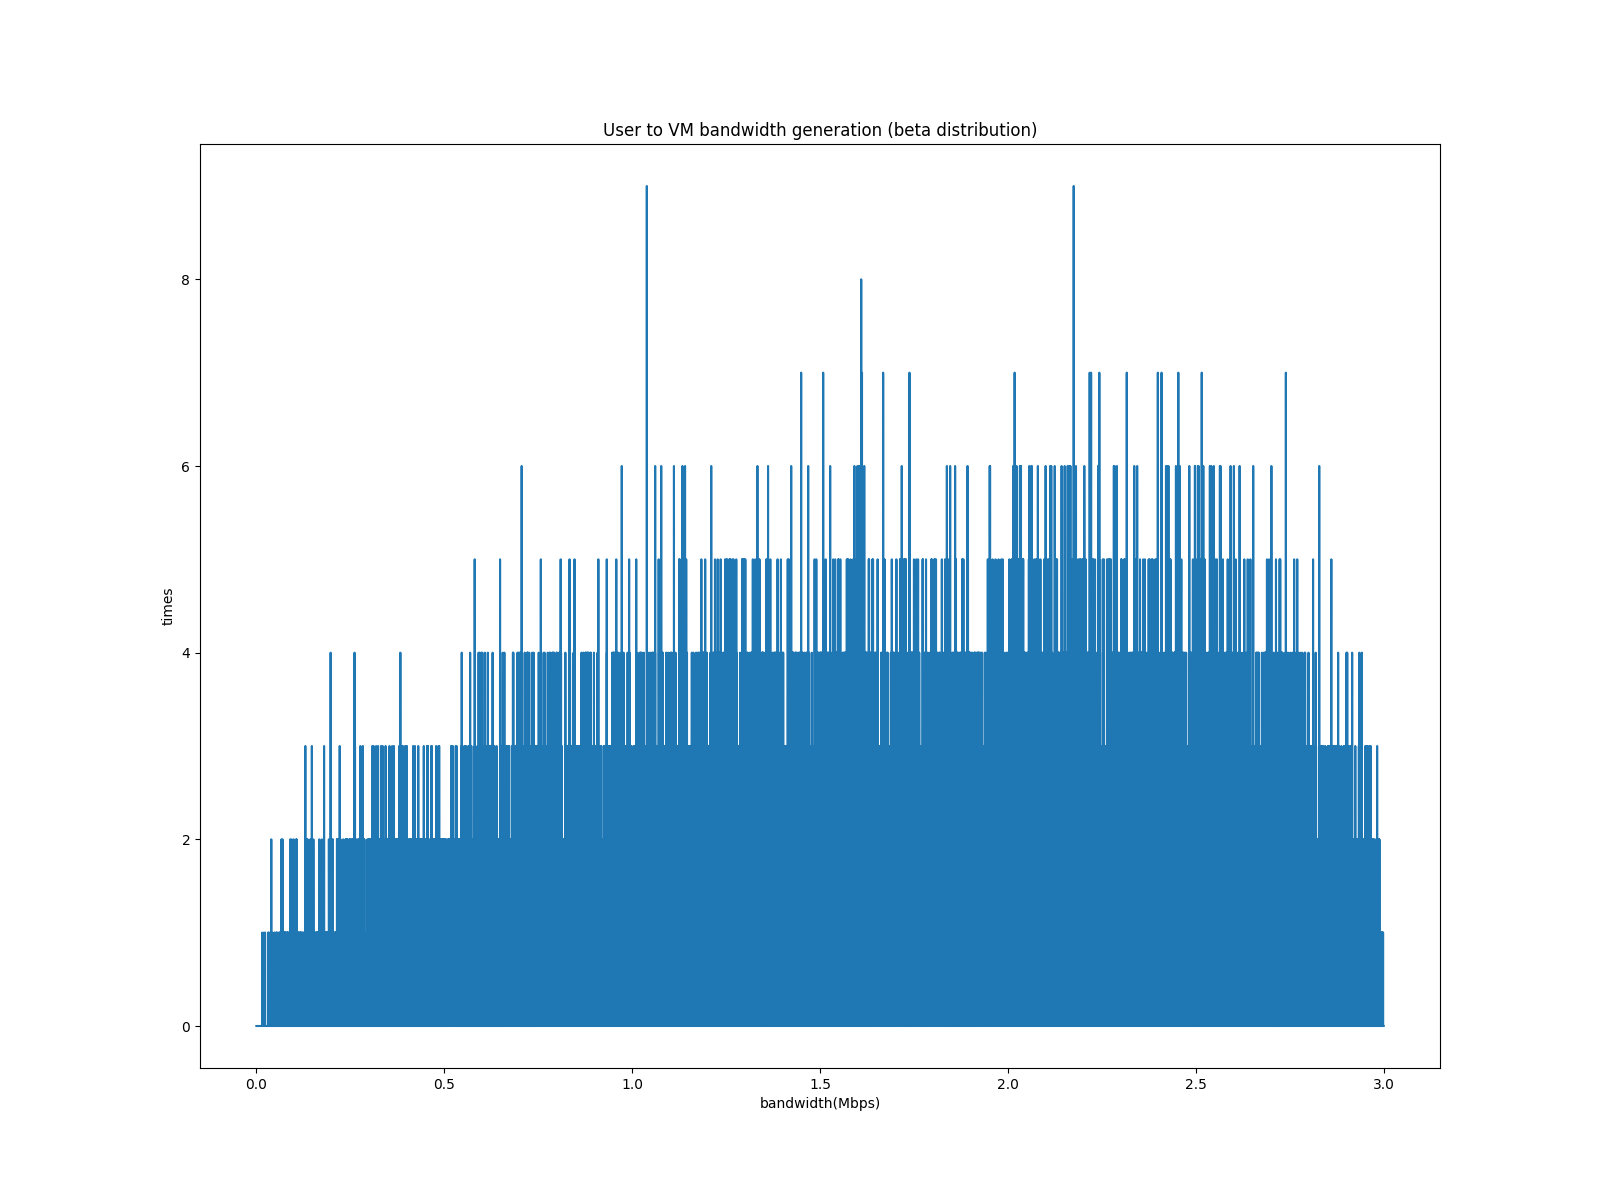
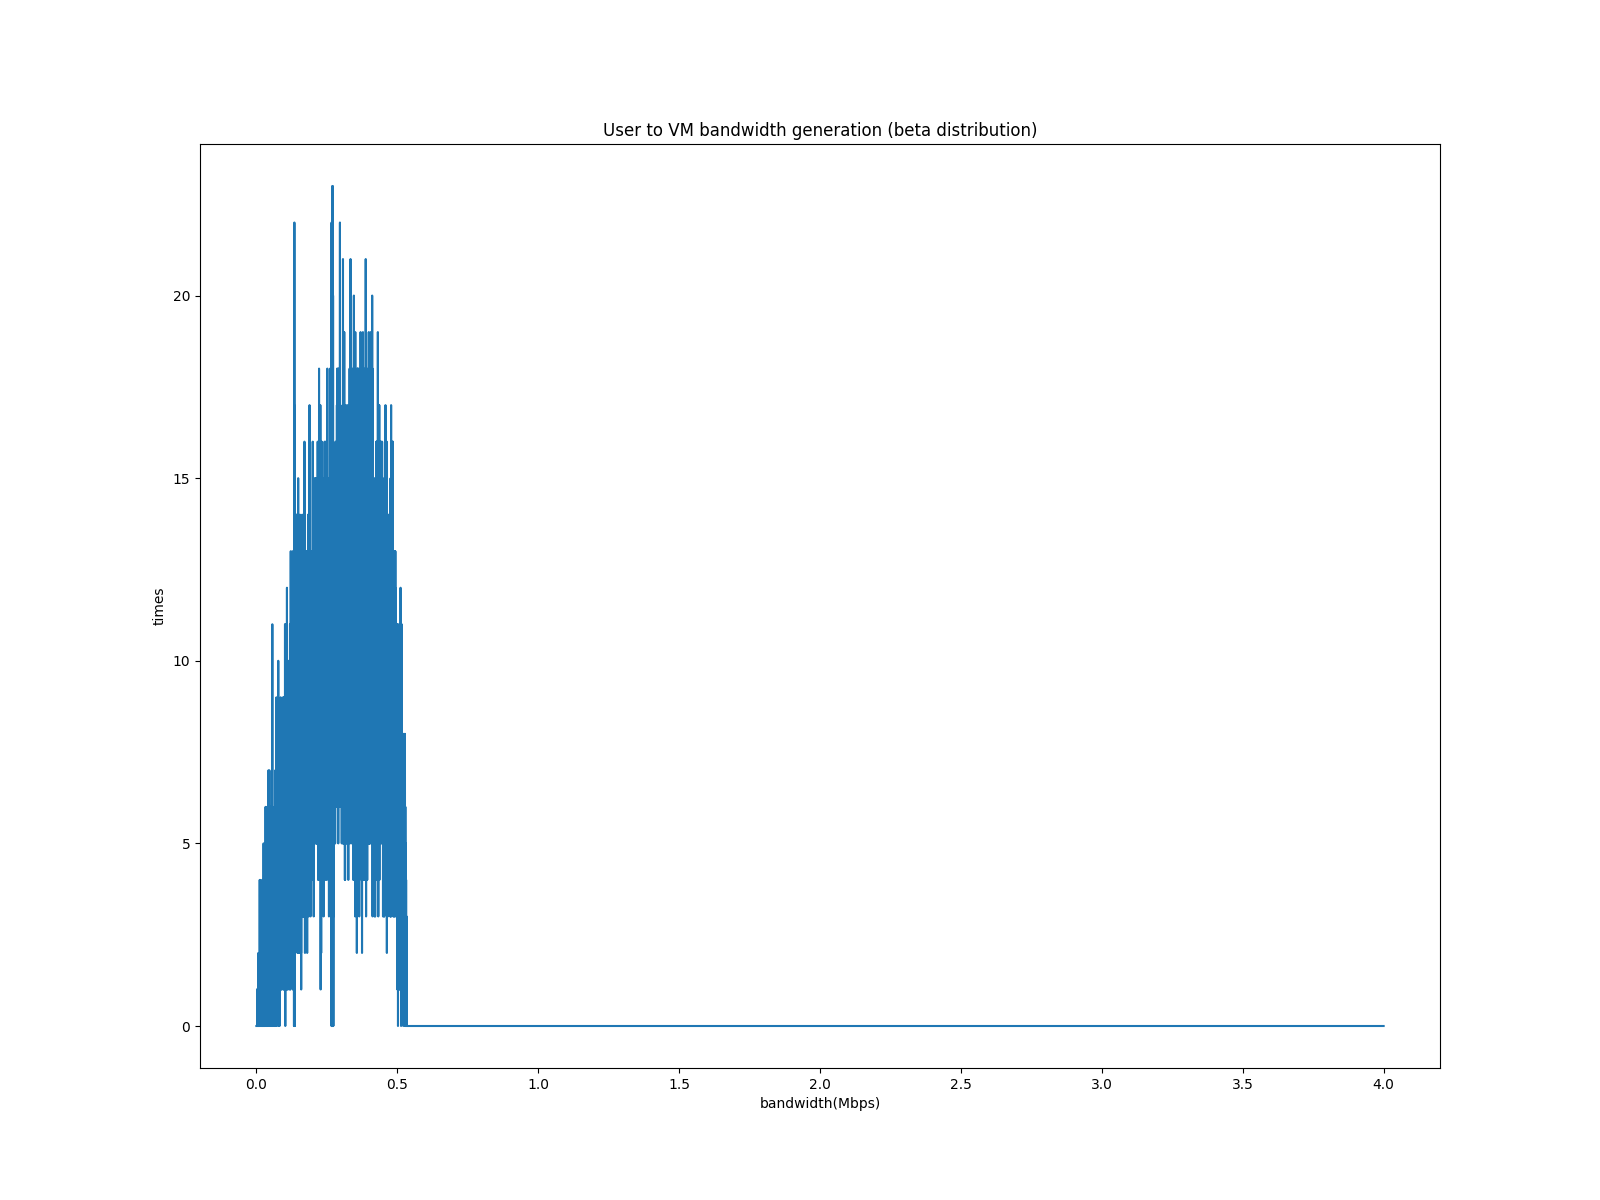
Fix voip up and down.

Changed region(s): [[0.1562, 0.185, 0.875, 0.8633], [0.0938, 0.4933, 0.125, 0.5242]]

diff --git a/plot_distri_utilFunc.py b/plot_distri_utilFunc.py
@@ -124,8 +124,8 @@ if __name__ == '__main__':
     beta_test()
     PT5_test()
     # plt.show()
-    utility_func_bw_test(150, 1500, UtilityFunc.VoIP.bw_up)
-    utility_func_bw_test(20, 2000, UtilityFunc.VoIP.bw_down)
+    utility_func_bw_test(20, 2000, UtilityFunc.VoIP.bw_up)
+    utility_func_bw_test(150, 1500, UtilityFunc.VoIP.bw_down)
     utility_func_delay_test(100, 1000, UtilityFunc.VoIP.delay)
     # plt.show()
     utility_func_bw_test(50, 5000, UtilityFunc.IPVideo.bw_up)

diff --git a/parameters.py b/parameters.py
@@ -56,8 +56,8 @@ mvno_op_cr = 0.05 # GCU-second/second
 
 # utility function
 max_score = 100
-voip_bw_up_bmin = 64 # Kbps
-voip_bw_down_bmin = 5
+voip_bw_up_bmin = 5 # Kbps
+voip_bw_down_bmin = 64
 ipVideo_bw_up_bmin = 5
 ipVideo_bw_up_bmax = 50
 ipVideo_bw_down_bmin = 24
